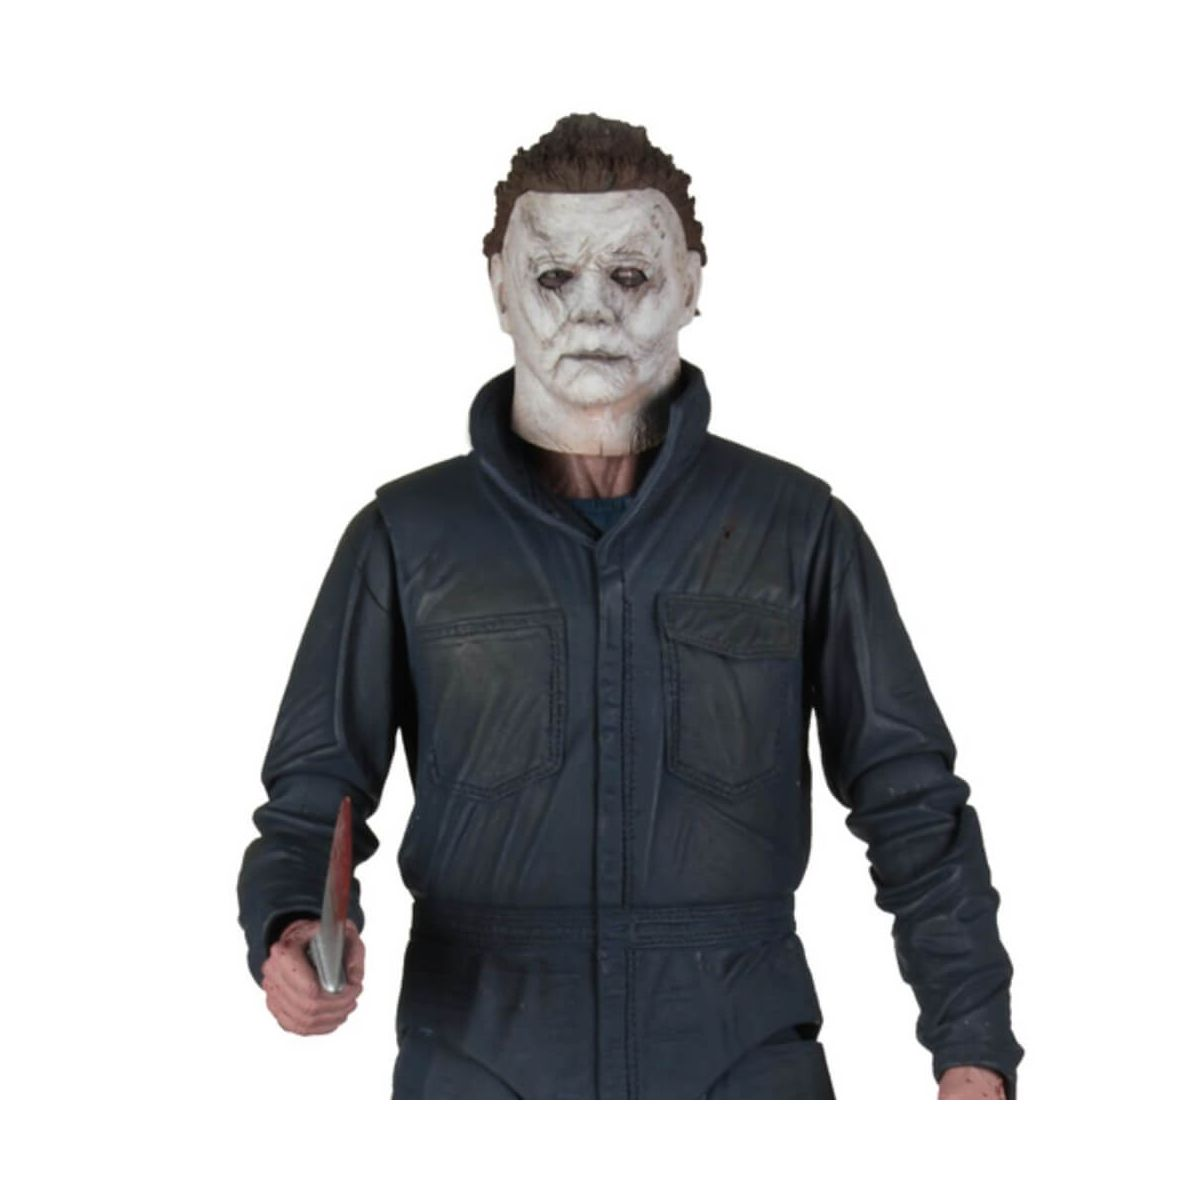
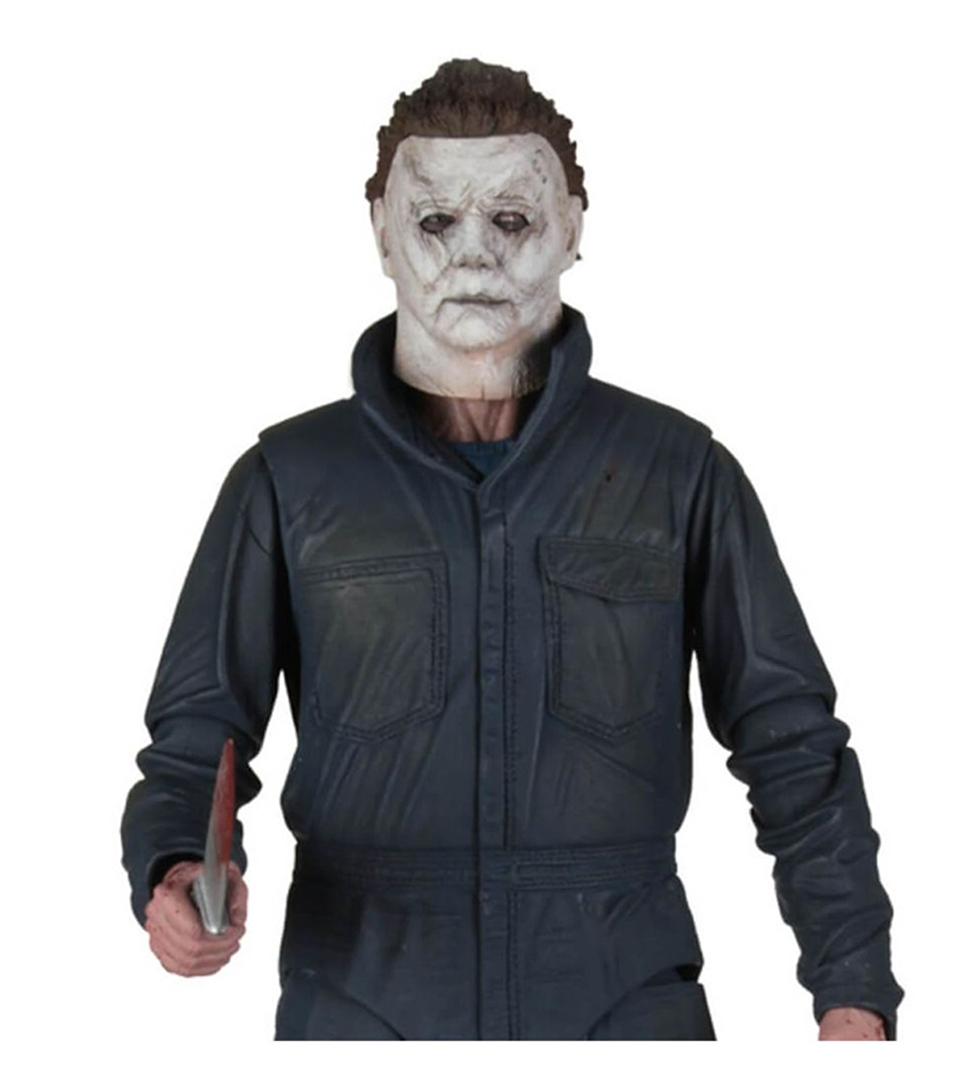
adicionada estilizações, responsividades atualizada, alteração no padding de info de produto, entre outras menores atts

Changed region(s): [[0.1245, 0.0307, 0.9336, 0.9823], [0.529, 0.4912, 0.5602, 0.5219]]

diff --git a/style.css b/style.css
@@ -163,25 +163,42 @@ body .paginadoproduto {
     padding-top: 6%;
     padding-left: 10%;
     padding-right: 10%;
+
+    justify-content: center;
    
 }
 body .fotoprincipal {
     width: 80%;
 
 }
+body .fotoprincipalmichael {
+    width: 60%;
+}
+
+.fotoprincipalnobara {
+    width: 70%;
+}
 .fotoprincipalvi {
-    width: 400px;
-    padding-right: 30px;
+    width: 480px;
+    margin-left: 100px;
 }
 .fotoprincipaljinx {
-    width: 380px;
-    padding-right: 30px;
+    width: 480px;
+    margin-left: 100px;
     
 }
+.infodoprodutovi {
+margin-left: 100px;
+}
+
+.infodoprodutojinx {
+    margin-left: 100px;
+    }
+
 body .caixainfoproduto {
     display: flex;
     flex-direction: column;
-    
+ 
 }
 
 body .titulodoproduto {
@@ -195,6 +212,9 @@ body .titulodoproduto {
 body .complementosdoproduto {
     padding-top: 7%;
 
+}
+ ul{
+    margin-left: -40px;
 }
 
 
@@ -222,6 +242,7 @@ body .compraragora {
     font-size: 16px;
     border-radius: 12px;
     font-weight: 700;
+    cursor: pointer;
     
 }
 
@@ -244,16 +265,7 @@ body .foto2 {
     
 }
 
-body .foto2:hover{
-    transform: scale(1.5);
 
-
-}
-body .foto3:hover{
-    transform: scale(1.5);
-
-
-}
 body .foto3 {
     display: block;
     margin-left: auto;
@@ -512,15 +524,18 @@ body .bannerimg {
     width: 500px;
     }
 
-    .products {
+.products {
         display: flex;
         flex-wrap: wrap;
         align-items: baseline;
-        margin-left: 60px;
+        margin-left: 65px;
     }
 
+ul {
+ margin-left: 0%;
+    }
 
-    footer {
+footer {
         width: 100%;
         height: 76px;
         display: flex;
@@ -529,8 +544,9 @@ body .bannerimg {
         background: #288a2b;
         
     }
+
     
-    footer .socialmedia  ul{
+footer .socialmedia  ul{
         padding: 0 0 0 80px;
         }
     
@@ -584,6 +600,11 @@ body .emparcelado {
 body .botaocomprar {
     padding-left: 12%;
 }
+
+.maisfotosdoproduto
+ { 
+     margin-left: -20px;
+ }
 body .foto2 {
     width: 80%;
     
@@ -592,4 +613,25 @@ body .foto3 {
     width: 80%;
 
 }
+
+.fotoprincipalmichael {
+    margin-left: 60px;
+}
+
+.fotoprincipalnobara {
+    margin-left: 50px;
+}
+
+.fotoprincipalvi {
+    width: 110%;
+    margin-left: -10px;
+
+}
+
+.fotoprincipaljinx {
+    width: 110%;
+    margin-left: -10px;
+
+}
+
 }

diff --git a/cartoons.html b/cartoons.html
@@ -84,42 +84,7 @@
     <h2>Cartoons</h2>
 </div>
 <section class="products">
-    <div class="product">
-        <a href="megumin.html"> <img src="products pics/megumin.jpg"/></a>
-            <a href="megumin.html"><p class="namefig">Megumin Konosuba</p></a>
-    <p class="madeby"> Max Factory  </p>
-    <p class="price"> R$ 429,90 </p>
-</div>
-    <div class="product">
-        <a href="michael.html"> <img src="products pics/michael myers.jpg"/></a>
-            <a href="michael.html"> <p class="namefig">Michael Myers - 1/4</p></a>
-    <p class="madeby"> NECA</p>
-    <p class="price"> R$ 1.499,00 </p>
-</div>
-    <div class="product">
-        <a href="nobara.html"> <img src="products pics/nobara.jpg"/></a>
-            <a href="nobara.html">  <p class="namefig">Nobara Kugisaki</p></a>
-    <p class="madeby">Taito</p>
-    <p class="price">R$ 299,90    </p>
-</div>
-    <div class="product">
-        <a href="stannis.html">  <img src="products pics/stannis.jpg"/></a>
-            <a href="stannis.html">  <p class="namefig">Stannis Baratheon</p></a>
-    <p class="madeby">Dark Horse</p>
-    <p class="price">R$ 209,90  </p>
-</div>
-    <div class="product">
-        <a href="vi.html">  <img src="products pics/vi3.png"/></a>
-            <a href="vi.html">  <p class="namefig">Vi League of legends</p></a>
-    <p class="madeby">Poly-Toys</p>
-    <p class="price">R$ 499,90 </p>
-</div>
-<div class="product">
-    <a href="jinx.html"> <img src="products pics/jinx.jpg"/></a>
-        <a href="jinx.html"> <p class="namefig">Jinx League of legends</p></a>
-    <p class="madeby">Poly-Toys</p>
-    <p class="price">R$ 499,90  </p>
-</div>
+  
 <div class="product">
     <a href="southpark.html">  <img src="products pics/southpark.jpg"/></a>
         <a href="southpark.html">  <p class="namefig">South Park Set Of 5  </p> </a>

diff --git a/vi.html b/vi.html
@@ -86,13 +86,13 @@
     <img class="fotoprincipalvi" src="products pics/vi3.png"/>
     
  </div>   
- <div class="infodoproduto">
+ <div class="infodoprodutovi">
      
 </div>
 <div class="caixainfoproduto">
     
 
-<div><p class="titulodoproduto">Megumin - God's blessing on this wonderful world!
+<div><p class="titulodoproduto">Vi - League of legends / Arcane
 
 </p></div>
 <div><p class="complementosdoproduto">

diff --git a/michael.html b/michael.html
@@ -83,7 +83,7 @@
 
 <section class="paginadoproduto">
  <div class="meguminproduto">
-    <img class="fotoprincipal" src="products pics/michael myers.jpg"/>
+    <img class="fotoprincipalmichael" src="products pics/michael myers.jpg"/>
     
  </div>   
  <div class="infodoproduto">

diff --git a/nobara.html b/nobara.html
@@ -83,7 +83,7 @@
 
 <section class="paginadoproduto">
  <div class="meguminproduto">
-    <img class="fotoprincipal" src="products pics/nobara.jpg"/>
+    <img class="fotoprincipalnobara" src="products pics/nobara.jpg"/>
     
  </div>   
  <div class="infodoproduto">

diff --git a/jinx.html b/jinx.html
@@ -86,7 +86,7 @@
     <img class="fotoprincipaljinx" src="products pics/jinx.jpg"/>
     
  </div>   
- <div class="infodoproduto">
+ <div class="infodoprodutojinx">
      
 </div>
 <div class="caixainfoproduto">
